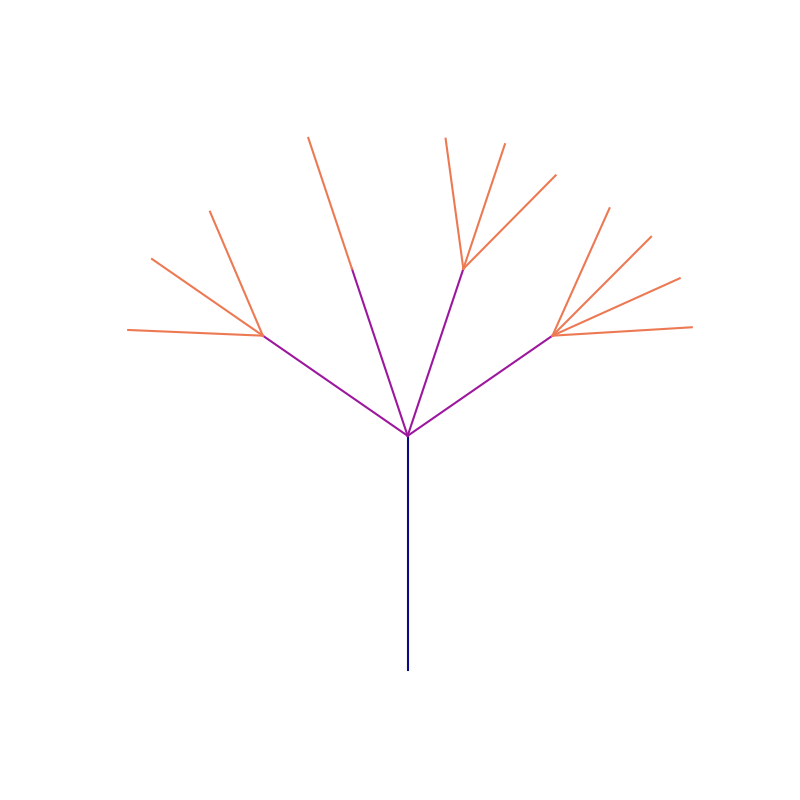
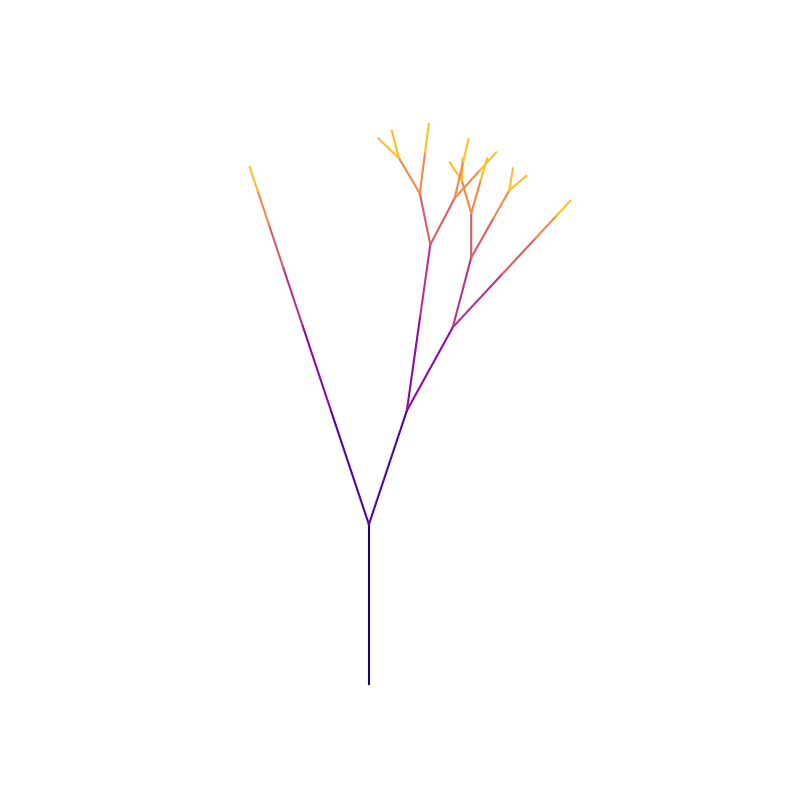
Making the Results
Commenting on the resulting fractal trees and the effect of some of the parameters.

diff --git a/DOCUMENTATION.md b/DOCUMENTATION.md
@@ -91,65 +91,66 @@ The recursion ends when the depth reaches zero, producing a finite fractal. By a
 
 ## Results
 
-### Fractal Pattern 1: Basic Fractal Tree
+### Base Fractal Tree
 
-![Fractal Tree](images/example.png)
+#### Fractal Tree 1: 
 
-- **Parameters**:
-  - `angle_change`: 30°
-  - `length_scaling_factor`: 0.7
-  - `recursion_depth`: 5
-- **Observations**:
-  - The fractal tree exhibits symmetry and balance.
-  - As the recursion depth increases, the level of detail in the branches increases.
-
-### Fractal Pattern 2: Basic Fractal Tree
-
-![Fractal Tree](images/example.png)
+![Fractal Tree 1](images/FractalTree_1.png)
 
 - **Parameters**:
-  - `angle_change`: 30°
-  - `length_scaling_factor`: 0.7
-  - `recursion_depth`: 5
+  - `recursion_depth`: 7
+  - `max_branches`: 4
 - **Observations**:
-  - The fractal tree exhibits symmetry and balance.
-  - As the recursion depth increases, the level of detail in the branches increases.
+  - As the recursion depth increases, the branches show a higher level of detail, creating a dense canopy-like structure.
+  - The gradual color transition from purple at the base to yellow at the outer branches highlights the branching levels.
 
-### Fractal Pattern 3: Basic Fractal Tree
+### Changing Recursion Depth
 
-![Fractal Tree](images/example.png)
+#### Fractal Tree 2:
+
+![Fractal Tree 2](images/FractalTree_2.png)
 
 - **Parameters**:
-  - `angle_change`: 30°
-  - `length_scaling_factor`: 0.7
-  - `recursion_depth`: 5
+  - `recursion_depth`: 12
+  - `max_branches`: 4
 - **Observations**:
-  - The fractal tree exhibits symmetry and balance.
-  - As the recursion depth increases, the level of detail in the branches increases.
+  - This tree displays a thicker and fuller appearance due to dense branch formations.
+  - It appears more organic and realistic, resembling a flowering plant or tree canopy.
 
-### Fractal Pattern 4: Basic Fractal Tree
+#### Fractal Tree 3:
 
-![Fractal Tree](images/example.png)
+![Fractal Tree 3](images/FractalTree_3.png)
 
 - **Parameters**:
-  - `angle_change`: 30°
-  - `length_scaling_factor`: 0.7
-  - `recursion_depth`: 5
+  - `recursion_depth`: 3
+  - `max_branches`: 4
 - **Observations**:
-  - The fractal tree exhibits symmetry and balance.
-  - As the recursion depth increases, the level of detail in the branches increases.
+  - This tree has a sparse structure with elongated branches, showing minimal recursion.
+  - It resembles an early branching structure, focusing on simplicity and wide angles.
 
-### Fractal Pattern 5: Basic Fractal Tree
+### Changing Max Branches
 
-![Fractal Tree](images/example.png)
+#### Fractal Tree 4:
+
+![Fractal Tree 4](images/FractalTree_4.png)
 
 - **Parameters**:
-  - `angle_change`: 30°
-  - `length_scaling_factor`: 0.7
-  - `recursion_depth`: 5
+  - `recursion_depth`: 7
+  - `max_branches`: 6
 - **Observations**:
-  - The fractal tree exhibits symmetry and balance.
-  - As the recursion depth increases, the level of detail in the branches increases.
+  - The tree has a balanced and moderately dense branching pattern.
+  - As recursion depth increases, the branches fill out, but still retain an airy and light structure.
+
+#### Fractal Tree 5:
+
+![Fractal Tree 5](images/FractalTree_5.png)
+
+- **Parameters**:
+  - `recursion_depth`: 7
+  - `max_branches`: 2
+- **Observations**:
+  - This shape resembles the early stages of growth, capturing an essence of initial branching.
+  - The tree is minimalistic, with few branches.
 
 ---
 
